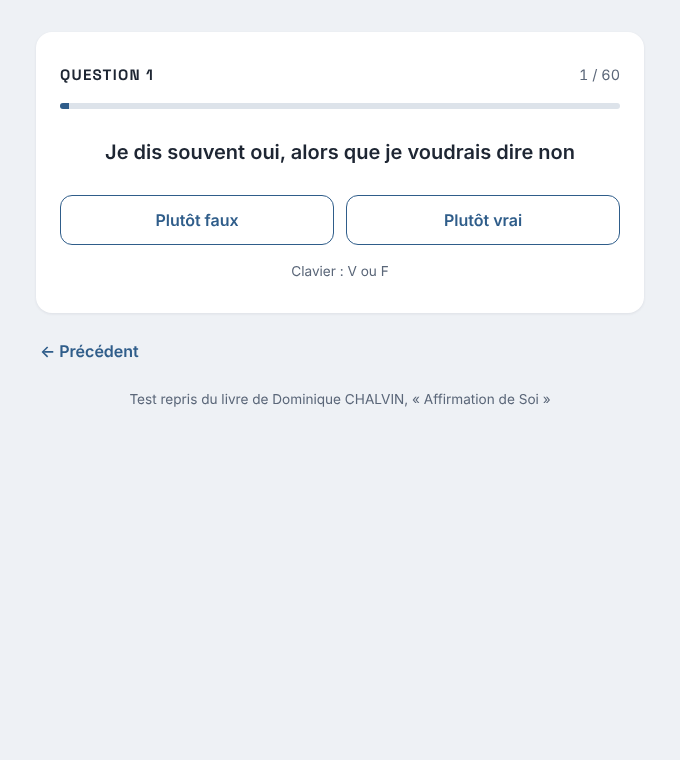
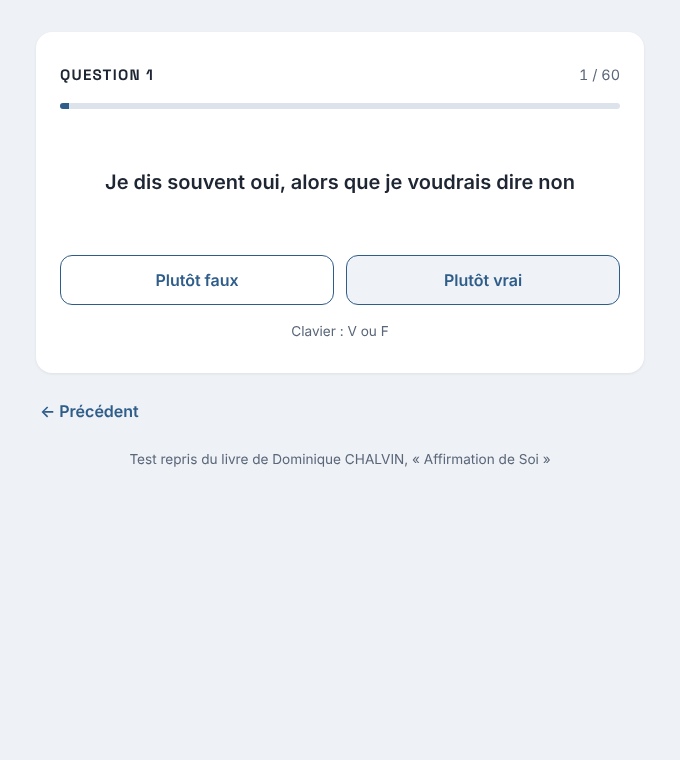
fix: boutons de réponse fixes et barres à base plate (v0.4.1) (#7)
Les boutons Plutôt faux / Plutôt vrai ne bougent plus d'une question à l'autre, et les barres de l'histogramme sont posées à plat sur l'axe.

diff --git a/src/ui/slider.js b/src/ui/slider.js
@@ -235,5 +235,44 @@ export function startSlider(root, content, questions) {
     el.answerFalse.addEventListener("click", () => answer(false));
     el.answerTrue.addEventListener("click", () => answer(true));
 
+    /**
+     * Réserve à la question la hauteur de la plus longue des 60, à la largeur actuelle :
+     * les boutons de réponse restent au même endroit d'une question à l'autre.
+     */
+    function reserveQuestionHeight() {
+        const probe = el.questionText.cloneNode();
+        probe.removeAttribute("id");
+        probe.hidden = false;
+        probe.setAttribute("aria-hidden", "true");
+        Object.assign(probe.style, {
+            position: "absolute",
+            visibility: "hidden",
+            minHeight: "0",
+            width: `${el.questionText.parentElement.clientWidth - paddingX(el.questionText.parentElement)}px`,
+        });
+        el.questionText.parentElement.append(probe);
+        let tallest = 0;
+        for (const question of questions) {
+            probe.textContent = frenchSpacing(question.text);
+            tallest = Math.max(tallest, probe.getBoundingClientRect().height);
+        }
+        probe.remove();
+        el.questionText.style.minHeight = `${Math.ceil(tallest)}px`;
+    }
+
+    function paddingX(element) {
+        const style = getComputedStyle(element);
+        return parseFloat(style.paddingLeft) + parseFloat(style.paddingRight);
+    }
+
+    let resizeFrame = 0;
+    window.addEventListener("resize", () => {
+        cancelAnimationFrame(resizeFrame);
+        resizeFrame = requestAnimationFrame(reserveQuestionHeight);
+    });
+
     render();
+    reserveQuestionHeight();
+    // Les polices changent la largeur du texte : on remesure une fois chargées
+    document.fonts?.ready.then(reserveQuestionHeight);
 }

diff --git a/src/core/chart.test.js b/src/core/chart.test.js
@@ -1,5 +1,5 @@
 import { describe, expect, it } from "vitest";
-import { barGeometry, ticks, valueToY } from "./chart.js";
+import { barGeometry, barPath, ticks, valueToY } from "./chart.js";
 
 const plot = { left: 40, top: 10, width: 400, height: 150 };
 
@@ -43,5 +43,22 @@ describe("valueToY", () => {
     it("place 0 en bas et le maximum en haut", () => {
         expect(valueToY(0, 15, plot)).toBe(160);
         expect(valueToY(15, 15, plot)).toBe(10);
+    });
+});
+
+describe("barPath", () => {
+    it("arrondit le haut et garde une base plate sur l'axe", () => {
+        const path = barPath({ x: 10, y: 20, width: 40, height: 100 }, 4);
+        expect(path).toBe("M10,120 V24 Q10,20 14,20 H46 Q50,20 50,24 V120 Z");
+    });
+
+    it("réduit le rayon d'une barre très basse", () => {
+        expect(barPath({ x: 0, y: 98, width: 40, height: 2 }, 4)).toBe(
+            "M0,100 V100 Q0,98 2,98 H38 Q40,98 40,100 V100 Z",
+        );
+    });
+
+    it("ne trace rien pour un score nul", () => {
+        expect(barPath({ x: 0, y: 100, width: 40, height: 0 })).toBe("");
     });
 });

diff --git a/src/ui/results-screens.js b/src/ui/results-screens.js
@@ -2,7 +2,7 @@
  * Écrans de résultats : grille d'analyse, histogramme avec détail par posture, conclusion.
  * Chaque fonction remplit le conteneur `panel` et ne garde aucun état global.
  */
-import { barGeometry, ticks, valueToY } from "../core/chart.js";
+import { barGeometry, barPath, ticks, valueToY } from "../core/chart.js";
 import { CATEGORIES } from "../core/scoring.js";
 import { frenchSpacing } from "../core/typography.js";
 
@@ -70,12 +70,8 @@ function buildChart(scores, maximum, labels) {
         const bar = barGeometry(scores[category], maximum, index, CATEGORIES.length, PLOT, 0.3);
         const inside = bar.height >= 22;
         chart.append(
-            svg("rect", {
-                x: bar.x,
-                y: bar.y,
-                width: bar.width,
-                height: bar.height,
-                rx: 4,
+            svg("path", {
+                d: barPath(bar, 4),
                 class: "chart-bar",
                 style: `fill: ${postureColor(category)}`,
             }),

diff --git a/src/core/chart.js b/src/core/chart.js
@@ -29,3 +29,24 @@ export function barGeometry(score, maximum, index, count, plot, gapRatio = 0.4) 
 export function valueToY(value, maximum, plot) {
     return plot.top + plot.height - (value / maximum) * plot.height;
 }
+
+/**
+ * Tracé SVG d'une barre aux coins du haut arrondis et à la base plate,
+ * posée sur l'axe. Le rayon est réduit si la barre est trop basse ou trop étroite.
+ */
+export function barPath({ x, y, width, height }, radius = 4) {
+    if (height <= 0 || width <= 0) {
+        return "";
+    }
+    const r = Math.min(radius, width / 2, height);
+    const bottom = y + height;
+    return [
+        `M${x},${bottom}`,
+        `V${y + r}`,
+        `Q${x},${y} ${x + r},${y}`,
+        `H${x + width - r}`,
+        `Q${x + width},${y} ${x + width},${y + r}`,
+        `V${bottom}`,
+        "Z",
+    ].join(" ");
+}

diff --git a/src/styles/main.css b/src/styles/main.css
@@ -108,7 +108,11 @@ h1 {
     margin: 0;
 }
 
+/* Hauteur réservée par slider.js : le texte est centré, les boutons ne bougent pas */
 .question-text {
+    display: flex;
+    align-items: center;
+    justify-content: center;
     font-size: 1.25rem;
     font-weight: 600;
     text-align: center;

diff --git a/CHANGELOG.md b/CHANGELOG.md
@@ -5,6 +5,13 @@ Format : [Keep a Changelog](https://keepachangelog.com/fr/1.1.0/), versions : [S
 
 ## [Non publié]
 
+## [0.4.1] - 2026-11-27
+
+### Corrigé
+
+- Les boutons « Plutôt faux » et « Plutôt vrai » restent au même endroit d'une question à l'autre : la question occupe toujours la hauteur de la plus longue, texte centré.
+- Barres de l'histogramme posées à plat sur l'axe : seuls les coins du haut sont arrondis.
+
 ## [0.4.0] - 2026-11-27
 
 ### Ajouté
@@ -83,7 +90,8 @@ Format : [Keep a Changelog](https://keepachangelog.com/fr/1.1.0/), versions : [S
 
 - `results.html` et `results.js`, qui ne fonctionnaient pas ; leurs textes sont conservés dans `src/data/content.json` pour la v0.3.0.
 
-[Non publié]: https://github.com/VincentLesniak/AssertivenessProject/compare/v0.4.0...HEAD
+[Non publié]: https://github.com/VincentLesniak/AssertivenessProject/compare/v0.4.1...HEAD
+[0.4.1]: https://github.com/VincentLesniak/AssertivenessProject/compare/v0.4.0...v0.4.1
 [0.4.0]: https://github.com/VincentLesniak/AssertivenessProject/compare/v0.3.0...v0.4.0
 [0.3.0]: https://github.com/VincentLesniak/AssertivenessProject/compare/v0.2.0...v0.3.0
 [0.2.0]: https://github.com/VincentLesniak/AssertivenessProject/compare/v0.1.0...v0.2.0
